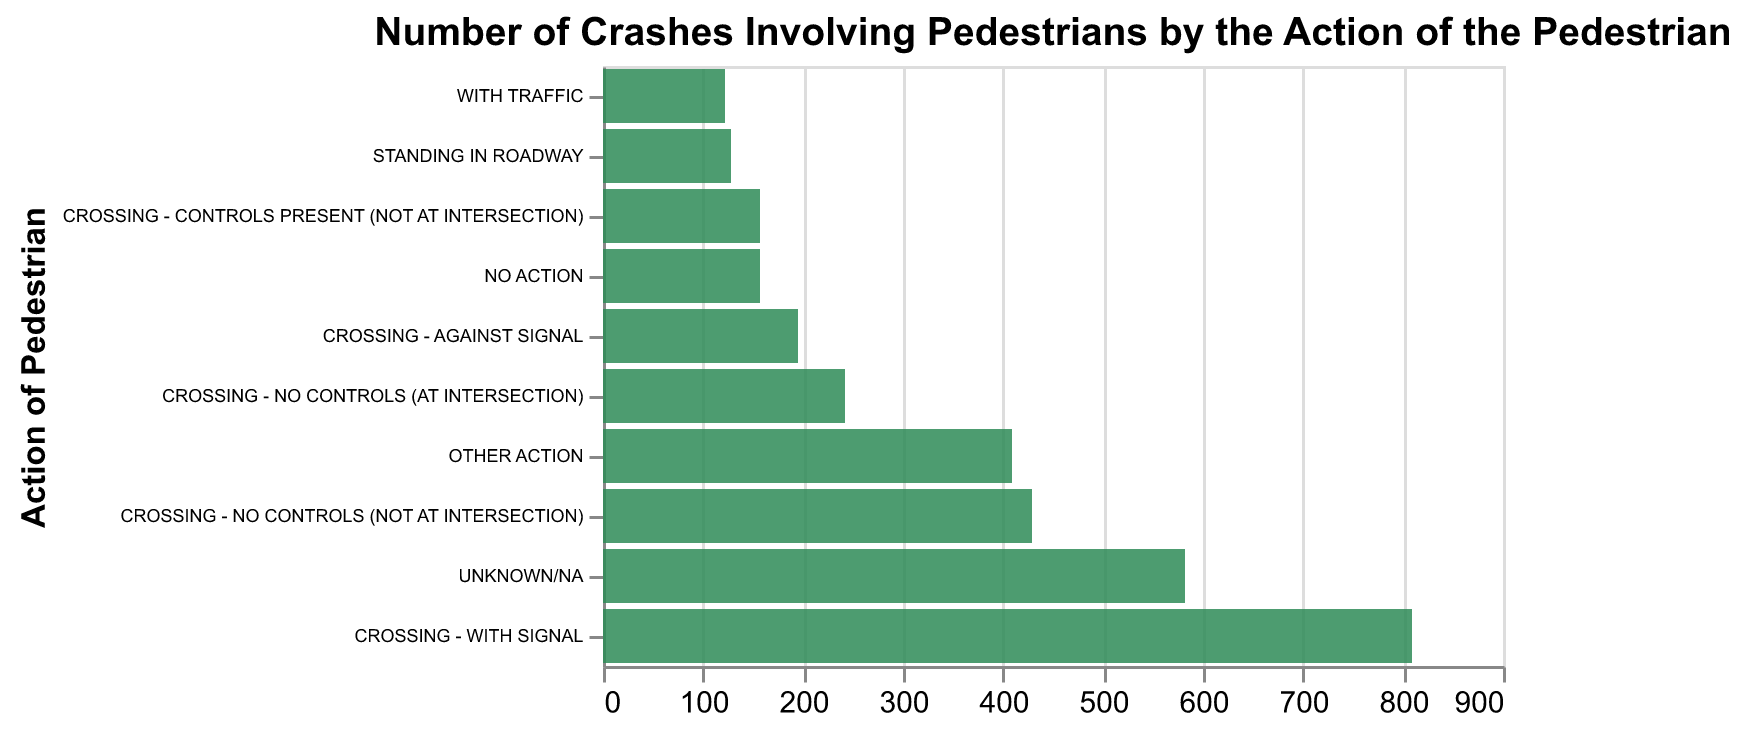
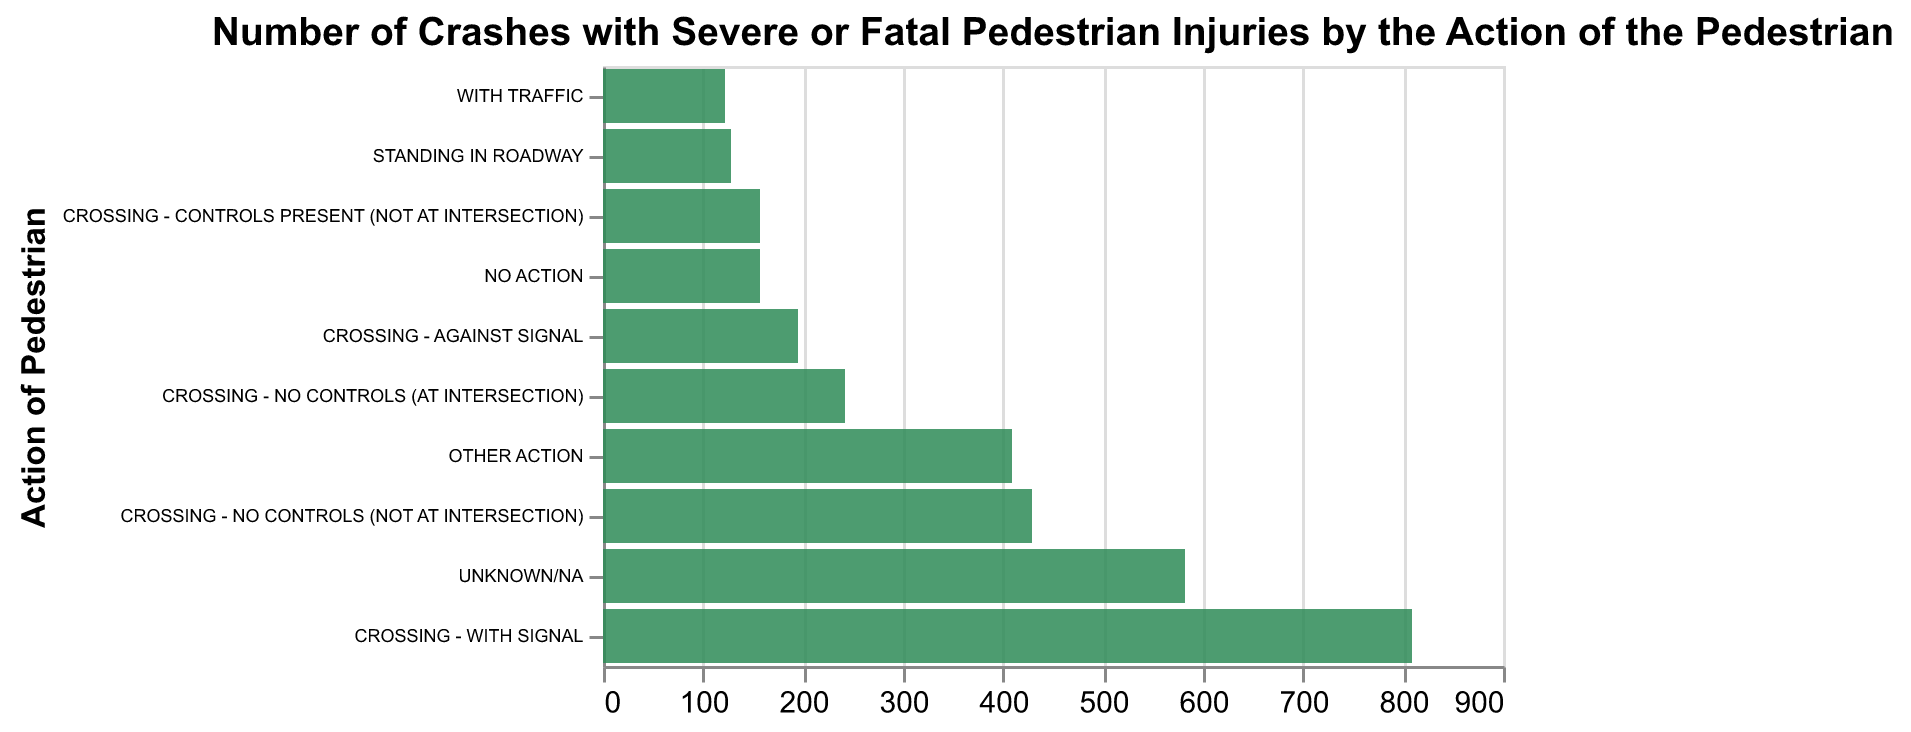
Changed QMD files to Python files

diff --git a/Code/data_cleaning.py b/Code/data_cleaning.py
@@ -1,0 +1,117 @@
+#loading packages
+import pandas as pd
+import geopandas as gpd
+from shapely import wkt
+import numpy as np
+
+#load raw crash and people data
+crashes = pd.read_csv("Data/Raw/Traffic_Crashes_Crashes.csv")
+people = pd.read_csv("Data/Raw/Traffic_Crashes_People.csv")
+
+#load road and community area data
+roads = pd.read_csv("Data/Raw/chicago_roads.csv")
+comm_areas = pd.read_csv("Data/Raw/CommAreas.csv")
+
+#basic cleaning for crashes data
+
+#recode posted speed limits =99 as missing (affects 0.008% of obs)
+crashes["POSTED_SPEED_LIMIT"] = crashes["POSTED_SPEED_LIMIT"].apply(
+    lambda x: np.nan if x == 99 else x)
+
+#define speed limit bins and labels
+bins = [0, 5, 10, 15, 20, 25, 30, 35, 40, 45, 50, 55, 60, 65, 70, 75]
+labels = [5, 10, 15, 20, 25, 30, 35, 40, 45, 50, 55, 60, 65, 70, 75]
+
+#assign each value to the correct bin
+crashes["binned_posted_speed"] = pd.cut(crashes["POSTED_SPEED_LIMIT"], 
+                                        bins=bins, 
+                                        labels=labels, 
+                                        right=True)
+
+#drop missing and outlier locations
+crashes = crashes[crashes["LATITUDE"] != 0]
+crashes = crashes[crashes["LOCATION"].notna()]
+
+#create geometry column
+crashes["geometry"] = crashes["LOCATION"].apply(wkt.loads)
+
+#clean people data to get pedestrians
+ped_data = people.loc[people["PERSON_TYPE"]=="PEDESTRIAN"]
+
+#keep severe crashes
+ped_data_severe = ped_data.loc[(ped_data["INJURY_CLASSIFICATION"]=="INCAPACITATING INJURY") |
+                                (ped_data["INJURY_CLASSIFICATION"]=="FATAL")]
+
+#count number of pedestrians involved per each unique crash id
+ped_crashes = ped_data["CRASH_RECORD_ID"].value_counts().reset_index()
+ped_crashes = ped_crashes.rename({"count":"n_peds_total"}, axis=1)
+
+#count number of pedestrians with severe injuries per each unique crash id
+ped_severe_crashes = ped_data_severe["CRASH_RECORD_ID"].value_counts().reset_index()
+ped_severe_crashes = ped_severe_crashes.rename({"count":"n_peds_severe"}, axis=1)
+
+#merge counts
+ped_counts = pd.merge(ped_crashes, ped_severe_crashes, on="CRASH_RECORD_ID", how="left")
+
+#merge into crash data
+ped_crashes = pd.merge(crashes, ped_counts, on="CRASH_RECORD_ID", how="inner")
+
+#merge pedestrian actions into crash data
+ped_actions = people[["PEDPEDAL_ACTION", "CRASH_RECORD_ID"]]
+ped_crashes = pd.merge(ped_crashes, ped_actions, on="CRASH_RECORD_ID", how="left")
+
+#keep relevant columns 
+ped_crashes = ped_crashes[["CRASH_RECORD_ID", "PEDPEDAL_ACTION", "binned_posted_speed",
+                            "n_peds_total", "n_peds_severe", "PRIM_CONTRIBUTORY_CAUSE",
+                            "LATITUDE", "LONGITUDE", "geometry"]]
+
+#output cleaned csv
+ped_crashes.to_csv("Data/Clean/ped_crashes.csv", index=False)
+
+# prep road and community area data for shiny app
+
+#create geometry column to turn roads csv into geopandas object
+roads["geometry"] = roads["the_geom"].apply(wkt.loads)
+roads_gdf = gpd.GeoDataFrame(roads, geometry="geometry")
+roads_gdf = roads_gdf.set_crs("EPSG:4326", inplace=True)
+
+#keep relevant columns for road data
+roads_gdf = roads_gdf[["OBJECTID", "STREET_NAM", "STREET_TYP", "SUF_DIR", "STREETNAME", "geometry"]]
+
+#create geometry column to turn community areas csv into geopandas object
+comm_areas["geometry"] = comm_areas["the_geom"].apply(wkt.loads)
+comm_areas_gdf = gpd.GeoDataFrame(comm_areas, geometry="geometry")
+comm_areas_gdf = comm_areas_gdf.set_crs("EPSG:4326", inplace=True)
+
+#keep relevant columns for community area data
+comm_areas_gdf = comm_areas_gdf[["COMMUNITY", "geometry"]]
+
+#turn ped crashes df geopandas object
+ped_crashes_gdf = gpd.GeoDataFrame(ped_crashes, geometry="geometry")
+ped_crashes_gdf = ped_crashes_gdf.set_crs("EPSG:4326", inplace=True)
+
+#add community area to road and crash  data with spatial join
+roads_gdf = gpd.sjoin(roads_gdf, comm_areas_gdf, how="left")
+ped_crashes_gdf = gpd.sjoin(ped_crashes_gdf, comm_areas_gdf, how="left")
+
+#define buffer distance around each road so that crash points lie within buffer
+buffer_distance = 0.00025
+
+#create buffer around roads for spatial join
+roads_gdf["buffer"] = roads_gdf.geometry.buffer(buffer_distance)
+
+#create new geodataframe for buffers
+buffered_gdf = roads_gdf.set_geometry("buffer")
+buffered_gdf = buffered_gdf[["buffer", "STREET_NAM"]]
+
+#spatial join crashes with buffers to get street name where crash occured
+ped_crashes_gdf = ped_crashes_gdf.drop(["index_right"], axis=1)
+ped_crashes_gdf = gpd.sjoin(ped_crashes_gdf, buffered_gdf, how="left", predicate="within")
+
+#drop buffer from road file
+roads_gdf = roads_gdf.drop(["buffer"], axis=1)
+
+#output shapefiles
+ped_crashes_gdf.to_file("shiny-app/ped_crashes.shp")
+comm_areas_gdf.to_file("shiny-app/comm_areas.shp")
+roads_gdf.to_file("shiny-app/roads.shp")

diff --git a/Code/plots.py b/Code/plots.py
@@ -1,9 +1,3 @@
----
-title: "Untitled"
-format: html
----
-
-```{python}
 import pandas as pd
 import geopandas as gpd
 from shapely import wkt
@@ -13,10 +7,6 @@ import matplotlib.pyplot as plt
 import contextily as ctx
 
 ped_crashes = pd.read_csv("Data/Clean/ped_crashes.csv")
-```
-
-
-```{python}
 #collapse by speed limit bin
 severe_crashes_by_speed = ped_crashes.groupby("binned_posted_speed")[
     ["n_peds_total", "n_peds_severe"]].sum().reset_index()
@@ -24,9 +14,7 @@ severe_crashes_by_speed = ped_crashes.groupby("binned_posted_speed")[
 #calculate share of severe ped crashes by speed
 severe_crashes_by_speed["share_severe"] = severe_crashes_by_speed[
     "n_peds_severe"]/severe_crashes_by_speed["n_peds_total"]
-```
 
-```{python}
 #plot share of severe ped crashes by posted speed limit
 speed_chart = alt.Chart(severe_crashes_by_speed).mark_bar(color="seagreen", opacity=0.85
 ).transform_filter(alt.datum.binned_posted_speed < 50
@@ -37,9 +25,7 @@ speed_chart = alt.Chart(severe_crashes_by_speed).mark_bar(color="seagreen", opac
         "text": ["Severe or Fatal Pedestrian Injuries", "by Posted Speed Limit"]},
         height=300, width=300)
 speed_chart.save("Pictures/severe_ped_by_speed.png", scale_factor=3)
-```
 
-```{python}
 ped_action = ped_crashes[ped_crashes['n_peds_total']==1]
 
 #subset to top ten actions 
@@ -59,20 +45,16 @@ ped_action = ped_action[ped_action['PEDPEDAL_ACTION'].isin([
 #groupby ped action and count number of severe pedestrian injuries
 ped_action = ped_action.groupby("PEDPEDAL_ACTION")["n_peds_severe"].sum(
     ).reset_index(name="n_peds_total")
-```
 
-```{python}
 #alt.data_transformers.enable("vegafusion")
 #plot number of severe ped crashes by action
 ped_act_chart = alt.Chart(ped_action).mark_bar(color="seagreen", opacity=0.85).encode(
     x=alt.Y("n_peds_total", axis=alt.Axis(title= "")),
     y=alt.X('PEDPEDAL_ACTION:O', sort='x', axis=alt.Axis(title= 'Action of Pedestrian',         
         labelFontSize=6))
-).properties(title= "Number of Crashes Involving Pedestrians by the Action of the Pedestrian")
+).properties(title= "Number of Crashes with Severe or Fatal Pedestrian Injuries by the Action of the Pedestrian")
 ped_act_chart.save("Pictures/severe_ped_by_action.png", scale_factor=3)
-```
 
-```{python}
 #create dictionary for new values of crash cause
 crash_cause_xwalk = {"CELL PHONE USE OTHER THAN TEXTING":"Distraction", 
     "DISTRACTION - FROM INSIDE VEHICLE":"Distraction", "DISTRACTION - FROM OUTSIDE VEHICLE":
@@ -109,9 +91,7 @@ crash_cause_xwalk = {"CELL PHONE USE OTHER THAN TEXTING":"Distraction",
 
 #replace new type variable
 ped_crashes["updated_cause"] = ped_crashes["PRIM_CONTRIBUTORY_CAUSE"].replace(crash_cause_xwalk)
-```
 
-```{python}
 #collapse by cause of crash
 severe_crashes_by_cause = ped_crashes.groupby("updated_cause")[
     ["n_peds_total", "n_peds_severe"]].sum().reset_index()
@@ -119,9 +99,7 @@ severe_crashes_by_cause = ped_crashes.groupby("updated_cause")[
 #calculate share of severe ped crashes by cause
 severe_crashes_by_cause["share_severe"] = severe_crashes_by_cause[
     "n_peds_severe"]/severe_crashes_by_cause["n_peds_total"]
-```
 
-```{python}
 #plot share of severe ped crashes by posted cause of crash
 cause_plot = alt.Chart(severe_crashes_by_cause).mark_bar(color="seagreen", opacity=0.85
 ).encode(
@@ -129,4 +107,3 @@ cause_plot = alt.Chart(severe_crashes_by_cause).mark_bar(color="seagreen", opaci
     x=alt.X("share_severe", title="Share of Pedestrian Involved Crashes (%)")
 ).properties(title="Severe or Fatal Pedestrian Injuries by Cause of Crash", height=300, width=300)
 cause_plot.save("Pictures/severe_ped_by_crash_cause.png", scale_factor=3)
-```
